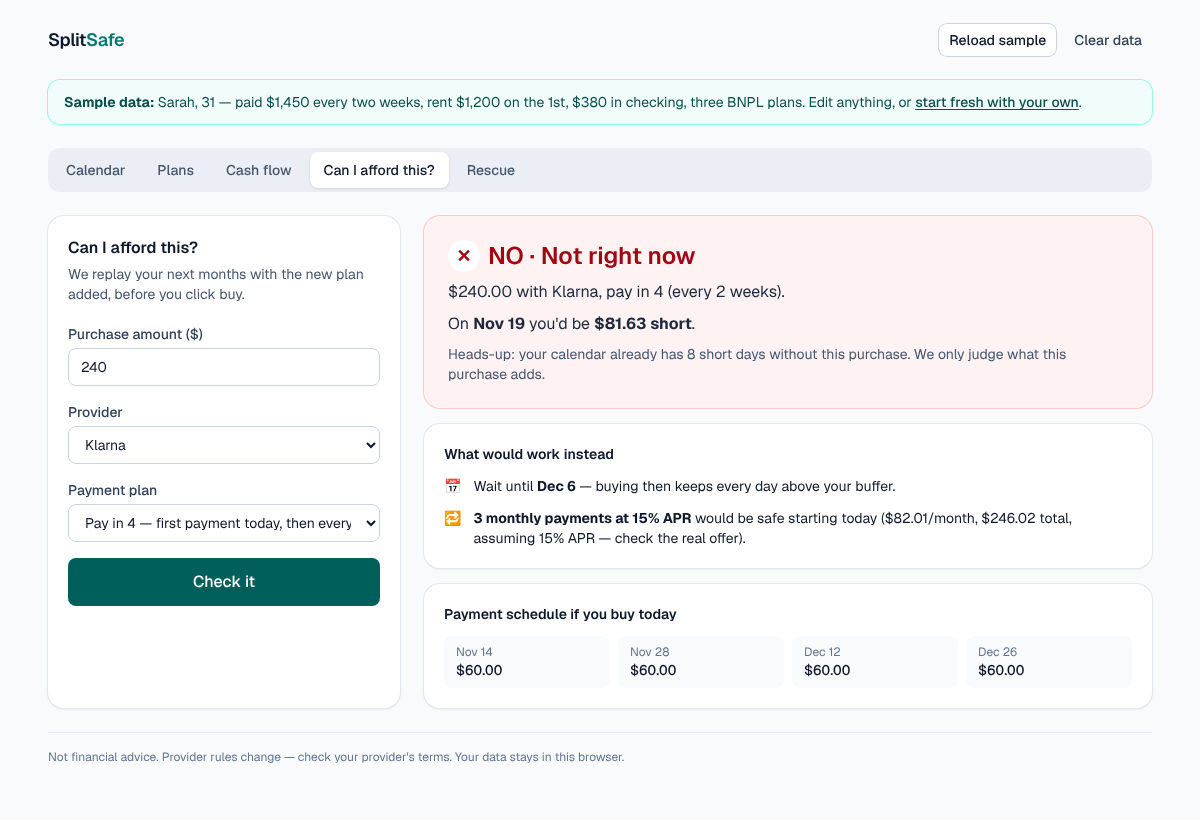
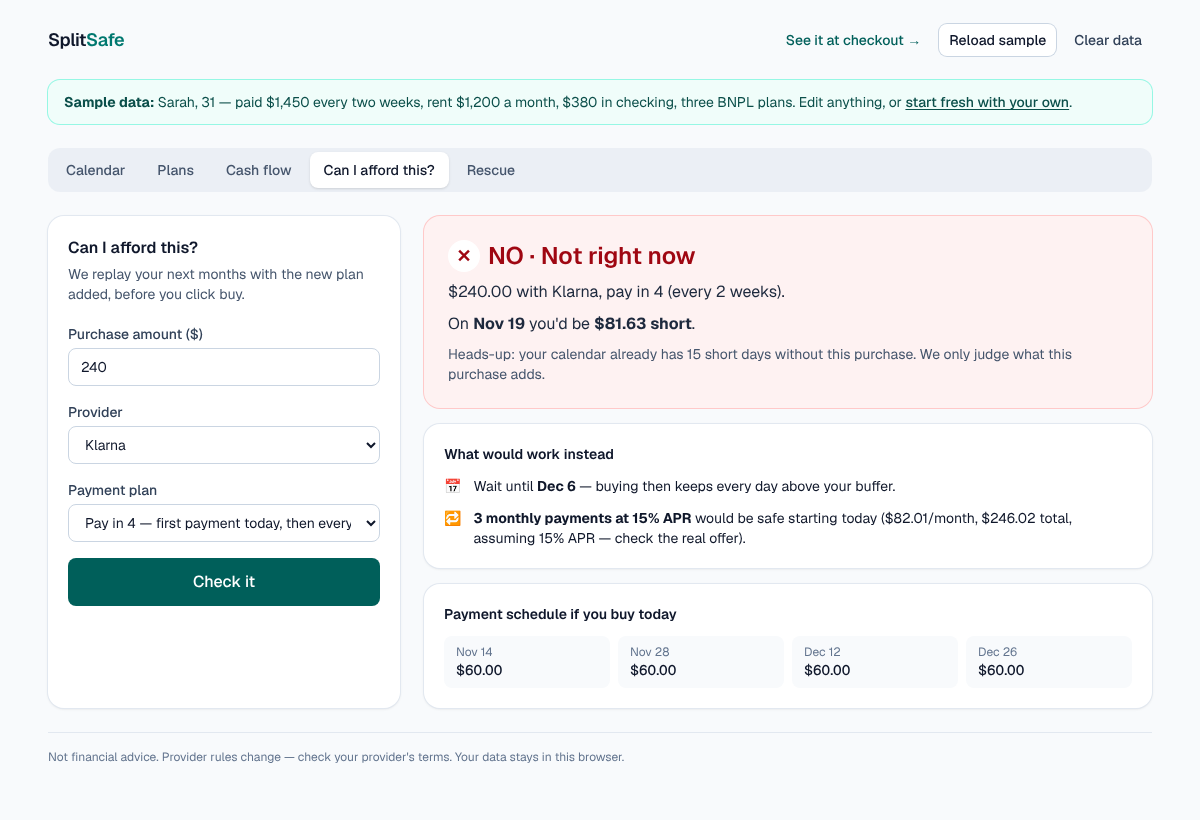
README: demo GIF, 60-second visual tour, presenting script
Claude-Session: https://claude.ai/code/session_016Pt2DoW9XdPDhJaKNSWiud

Changed region(s): [[0.4317, 0.122, 0.8942, 0.1524], [0.555, 0.4268, 0.8942, 0.4573], [0.6475, 0.0305, 0.7708, 0.061]]

diff --git a/README.md b/README.md
@@ -4,7 +4,7 @@
 
 **Live demo: [splitsafe-phi.vercel.app](https://splitsafe-phi.vercel.app)** · no sign-up: click **Try it with sample data**.
 
-![Calendar with headline cards](docs/calendar.png)
+![30-second tour: sample data, danger day, fix options, Can I afford this?, checkout check](docs/demo.gif)
 
 ## The problem
 
@@ -19,13 +19,29 @@ People don't hate BNPL. They hate not seeing what's coming. SplitSafe puts every
 | **Add plans** | Paste one or more confirmation emails. Claude pulls out each plan, then you review and fix it in a table before saving. You can also add, edit and delete plans by hand. |
 | **Cash flow** | Checking balance, take-home pay, pay frequency (weekly / every 2 weeks / twice a month / monthly), next payday, recurring bills, and a safety buffer. |
 | **Cash calendar** | A day-by-day projected balance for the next 90 days. Red days are **short** (below $0) and amber days are **tight** (below the buffer). Three headline cards: *already promised from your next paycheck*, *next danger day* (with the payments behind it), and *debt-free on*. |
+| **Fix my danger day** | Concrete options, each re-checked against the full calendar: *ask Affirm to move $156.63 to payday*, *pause Streaming this month*, or a small mix. Each comes with a ready-to-send request and an "they agreed, update my plan" button, plus the cash needed as a fallback. |
+| **Add to my calendar** | One click exports every BNPL payment and danger-day warning (with reminders) as an `.ics` file for Google, Apple or Outlook Calendar. |
 | **Can I afford this?** | Enter an amount, a provider and a term (Pay in 4, or N months at an APR). You get **SAFE / TIGHT / NO**, the first problem date and amount, the earliest safe purchase date within 60 days, and a safer term if one exists. |
 | **Rescue mode** | "My income dropped": shows which payments fail and when, ranks what to protect first (essentials, then payments that affect your credit, then late-fee payments), and writes a polite hardship request for each provider with a copy button. |
 
-<p>
-<img src="docs/afford.png" width="49%" alt="Can I afford this? verdict" />
-<img src="docs/rescue.png" width="49%" alt="Rescue mode ranking" />
-</p>
+## 60-second tour
+
+| | |
+|---|---|
+| **1. See the danger.** One click loads Sarah's data: 113% of her next paycheck is already promised, and she's short on a day 5 days out. | <img src="docs/calendar.png" alt="Calendar with headline cards" /> |
+| **2. Fix it.** Move one payment to payday, or pause a non-essential bill. Every option is re-simulated; the request message is written for you. | <img src="docs/fix.png" alt="How to fix the danger day" /> |
+| **3. Decide before buying.** A $240 Klarna purchase gets **NO**, with the exact day it bites, a safe date, and a safer term. | <img src="docs/afford.png" alt="Can I afford this? verdict" /> |
+| **4. At checkout.** The same check appears next to "Pay in 4" in the store (demo page and Chrome extension). | <img src="docs/checkout-demo.png" alt="Checkout demo with SplitSafe verdict" /> |
+| **5. When income drops.** Rescue mode ranks what to protect first and drafts hardship requests. | <img src="docs/rescue.png" alt="Rescue mode ranking" /> |
+
+### Demo script for presenting
+
+1. Open the [landing page](https://splitsafe-phi.vercel.app), then click **Try it with sample data**.
+2. **Calendar:** point at the three cards ("113% already promised", "short in 5 days", "debt-free date").
+3. **How to fix:** open *Write the request* for the Affirm option, then click *Affirm agreed*. The danger day disappears.
+4. **Can I afford this?:** it's pre-filled with $240 Klarna, so click **Check it** to get NO, a safe date and a safer term.
+5. **See it at checkout:** switch items and terms in the demo store and watch the verdict change.
+6. Close with: *"BNPL isn't the problem. Flying blind is. We're not a lender, and your data never leaves your browser."*
 
 ### At checkout: demo page + browser extension
 
@@ -38,13 +54,14 @@ BNPL providers don't let third parties add messages inside their own checkout, s
 
 ### Demo story (sample data)
 
-Sarah is 31 and takes home $1,450 every two weeks. Rent is $1,200 on the 1st, and she has $380 in checking. She has three plans: Klarna sneakers ($160, Pay in 4), an Afterpay jacket ($120, Pay in 4), and an Affirm couch ($900 over 6 months at 15% APR). All dates are relative to today, so the demo always shows:
+Sarah is 31 and takes home $1,450 every two weeks. Rent is $1,200 a month, and she has $380 in checking. She has three plans: Klarna sneakers ($160, Pay in 4), an Afterpay jacket ($120, Pay in 4), and an Affirm couch ($900 over 6 months at 15% APR). All dates are relative to today, so the demo always shows:
 
 - a **red danger day about 5 days out**, short by $21.63 because five autopays land before payday;
 - **113% of her next paycheck already promised**;
-- **"Can I afford a $240 Klarna purchase?" → NO**, with a suggested safe date and a safer term.
+- **"Can I afford a $240 Klarna purchase?" → NO**, with a suggested safe date and a safer term;
+- at least one **working fix** for the danger day.
 
-A unit test checks this story against every day of a full year.
+Unit tests check this story against every day of a full year.
 
 ## How it works: engine vs LLM
 
@@ -63,7 +80,7 @@ flowchart LR
   UI -- "user reviews & fills gaps" --> LS
 ```
 
-- **`lib/engine/`** holds pure functions only: payday generation, installment schedules (pay-in-4, amortized monthly, rule expansion), the 90-day daily simulation, insights, affordability with the earliest-safe-date search, and rescue prioritization. Each takes `today` as an argument, so results are reproducible and testable.
+- **`lib/engine/`** holds pure functions only: payday generation, installment schedules (pay-in-4, amortized monthly, rule expansion), the 90-day daily simulation, insights, affordability with the earliest-safe-date search, danger-day fix suggestions, and rescue prioritization. Each takes `today` as an argument, so results are reproducible and testable.
 - **`lib/engine/providers.ts`** is the single config for provider rules: late fee, credit-bureau reporting, hardship options, `sourceUrl`, `lastVerified`, and a `verified` flag. Rules we haven't verified are labeled as unverified in the UI.
 - **`/api/parse`** sends the pasted text to Claude with a zod schema as the structured output format, validates the result with zod, and retries once. Then **code, not the model**, normalizes provider names and expands rules like "4 payments of $25 every 2 weeks starting Nov 20". Missing dates or amounts stay empty and are highlighted for the user to fill in. Nothing is ever invented.
 - **Privacy:** there's no database and no auth. Plans and cash flow live only in your browser's localStorage. The only data that leaves the browser is the pasted email text, sent once for parsing and not stored.
@@ -101,6 +118,7 @@ lib/
   parse/                LLM output schema, normalization, rate limiter
   bnpl-detect.ts        finds "4 payments of $X" offers in page text (extension)
   verdict-copy.ts       verdict wording shared by the checkout demo and the extension
+  ics.ts                .ics calendar export of payments and danger days
   sample-data.ts        date-relative demo persona and emails
   schemas.ts            zod schemas for persisted state
 extension/              Chrome extension (MV3): sync, detect, verdict card

diff --git a/DECISIONS.md b/DECISIONS.md
@@ -45,7 +45,7 @@ Judgment calls made during the build, so reviewers can see what was decided and 
 - **No auth, no database.** Data lives in localStorage, wrapped in try/catch and validated with zod on load. Corrupt data falls back to an empty state instead of crashing.
 - **The waitlist email** is stored only in localStorage, and the modal says so.
 - **Provider rules:** Affirm, Klarna and Afterpay follow the project brief and are marked verified as of 2026-11-14. PayPal Pay in 4, Zip and Sezzle are marked unverified, and the UI says so.
-- **Sample data** is relative to today. Groceries/gas and utilities are included so the projection doesn't drift unrealistically upward. A test checks the story (a short day within 3 weeks, and a NO with a safe date for the $240 Klarna check) on all 366 days of a year.
+- **Sample data** is relative to today, including rent (due the day after a payday this month rather than on a fixed 1st, so the BNPL-driven danger day is the first one on every date of the year). Groceries/gas and utilities are included so the projection doesn't drift unrealistically upward. A test checks the story (a short day within 3 weeks, and a NO with a safe date for the $240 Klarna check) on all 366 days of a year.
 - **Light theme only** for now, to guarantee accessible contrast in the time available.
 
 ## Checkout integration
@@ -55,3 +55,12 @@ Judgment calls made during the build, so reviewers can see what was decided and 
 - **Detection is conservative:** only explicit "N payments of $X" / "N monthly payments of $X" / "$X/mo for N months" text is recognized. A price is never inferred from other numbers on the page. Monthly offers are evaluated at the shown payment (0% APR), because the shown payment already includes any interest.
 - **Distribution:** `npm run build` runs `build:extension` first, so the live site serves a fresh `splitsafe-extension.zip`. Build output is git-ignored.
 - **Verdict wording** lives in `lib/verdict-copy.ts` so the demo page and the extension can't drift apart. When the calendar is already short without the purchase, the copy says so instead of blaming the purchase alone.
+
+## Fix suggestions and calendar export
+
+- **"How to fix" options are checked, not guessed.** Candidates are the BNPL installments and non-essential bills between today and the next payday. Each subset of up to 3 changes is re-simulated. An option is shown only if no day before payday stays under the threshold ($0 for a short day, the buffer for a tight one) **and** no new short day appears later in the 90 days.
+- **Ranking:** fewest changes first, then options that need no one's permission (pausing a bill) before asking a provider, then the smallest amount moved. Options that are just a superset of a listed option are dropped.
+- **Essential bills are never suggested for pausing.** When the shortfall comes from essentials alone, we say so and point to Rescue and the cash-needed fallback.
+- **"Update my plan" changes only the one installment** the user says the provider agreed to move. We never change plans on the user's behalf otherwise.
+- **The .ics export** is pure and tested: all-day events for unpaid installments (1-day reminder), and one warning at the start of each short/tight stretch (2-day reminder). The timestamp is injected; lines are CRLF and folded per RFC 5545.
+- **SAFE copy is honest on already-shaky calendars:** "doesn't push any day below your buffer that wasn't already there" plus a heads-up, instead of claiming every day is fine.
